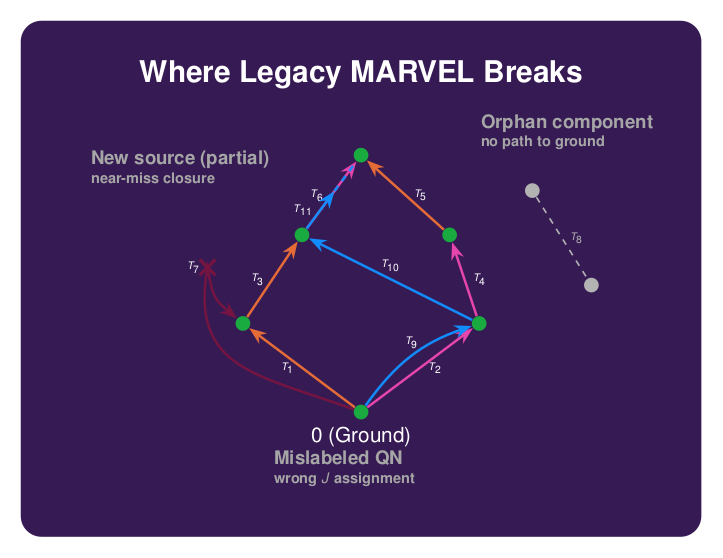
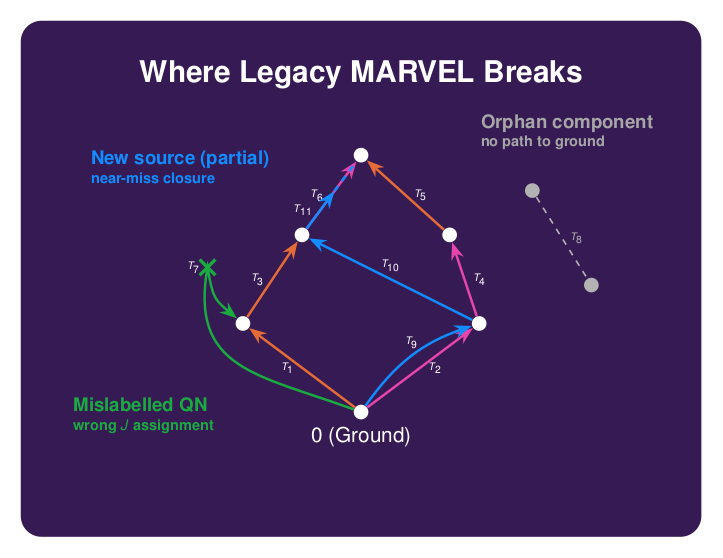
Recolour MARVEL breaks/GNN level dots and flagged edges, fix Mislabelled typo

diff --git a/MARVEL/marvel_breaks.tex b/MARVEL/marvel_breaks.tex
@@ -29,15 +29,15 @@
     >=Stealth,
     node distance=1cm,
     every node/.style={text=white},
-    level_dot/.style={circle, fill=uclLightGreen, inner sep=2.5pt},
+    level_dot/.style={circle, fill=white, inner sep=2.5pt},
     orphan_dot/.style={circle, fill=gray!60, inner sep=2.5pt},
     srcA/.style={->, very thick, color=uclLightOrange},
     srcB/.style={->, very thick, color=uclLightPink},
     srcC/.style={->, very thick, color=uclLightBlue},
     srcC_gap/.style={-, very thick, dashed, color=uclLightBlue},
     orphan_edge/.style={-, thick, dashed, gray!60},
-    flagged_edge/.style={->, very thick, color=uclDarkRed},
-    flag_mark/.style={cross out, draw=uclDarkRed, ultra thick, minimum size=6pt, inner sep=0pt},
+    flagged_edge/.style={->, very thick, color=uclLightGreen},
+    flag_mark/.style={cross out, draw=uclLightGreen, ultra thick, minimum size=6pt, inner sep=0pt},
     panel_bg/.style={rounded corners=10pt, inner sep=16pt, draw=none},
     heading/.style={font=\bfseries\Large, align=center, anchor=south},
     caption_style/.style={font=\bfseries\small, align=left, anchor=west, text=gray!70!white}
@@ -86,7 +86,7 @@
             to[out=-80, in=140, looseness=1.3] (A);
         \node[left, font=\tiny, text=white] at (t7curl) {$T_7$};
         \node[flag_mark] at (t7curl) {};
-        \node[caption_style, align=left] at (2.8, -1.7) {Mislabeled QN\\[-2pt]{\scriptsize wrong $J$ assignment}};
+        \node[caption_style, align=left, text=uclLightGreen] at (-0.6, -0.8) {Mislabelled QN\\[-2pt]{\scriptsize wrong $J$ assignment}};
     \fi
 
     % --- LAYER 4: new source, partial path that almost closes the loop ---
@@ -98,7 +98,7 @@
         \draw[srcC] (B) -- (C) node[midway, above, font=\tiny] {$T_{10}$};
         \draw[srcC] (C) -- ($(C)!0.55!(E)$) node[midway, left, font=\tiny] {$T_{11}$};
         \draw[srcC_gap] ($(C)!0.55!(E)$) -- ($(C)!0.9!(E)$);
-        \node[caption_style, align=left] at (-0.3, 3.4) {New source (partial)\\[-2pt]{\scriptsize near-miss closure}};
+        \node[caption_style, align=left, text=uclLightBlue] at (-0.3, 3.4) {New source (partial)\\[-2pt]{\scriptsize near-miss closure}};
     \fi
 \end{scope}
 

diff --git a/MARVEL/marvel_gnn.tex b/MARVEL/marvel_gnn.tex
@@ -23,7 +23,7 @@
     >=Stealth,
     node distance=1cm,
     every node/.style={text=white},
-    level_dot/.style={circle, fill=uclLightGreen, inner sep=2.5pt},
+    level_dot/.style={circle, fill=white, inner sep=2.5pt},
     orphan_dot/.style={circle, fill=gray!60, inner sep=2.5pt},
     level_line/.style={ultra thick, uclLightGreen, line cap=round},
     srcA/.style={->, very thick, color=uclLightOrange},
@@ -31,7 +31,7 @@
     srcC/.style={->, very thick, color=uclLightBlue},
     srcC_gap/.style={-, very thick, dashed, color=uclLightBlue},
     orphan_edge/.style={-, thick, dashed, gray!60},
-    flagged_edge/.style={->, very thick, color=uclDarkRed},
+    flagged_edge/.style={->, very thick, color=uclLightGreen},
     head_box/.style={rectangle, rounded corners=4pt, draw=white, thick, fill=uclDarkPurple, minimum width=1.9cm, minimum height=0.7cm, align=center, font=\scriptsize},
     encoder_box/.style={rectangle, rounded corners=4pt, draw=white, thick, fill=uclDarkPurple, minimum width=2.1cm, minimum height=1.6cm, align=center, font=\bfseries\small},
     advisory_box/.style={rectangle, rounded corners=6pt, draw=white, thick, dashed, minimum width=3.6cm, align=left, font=\small, inner sep=6pt},
